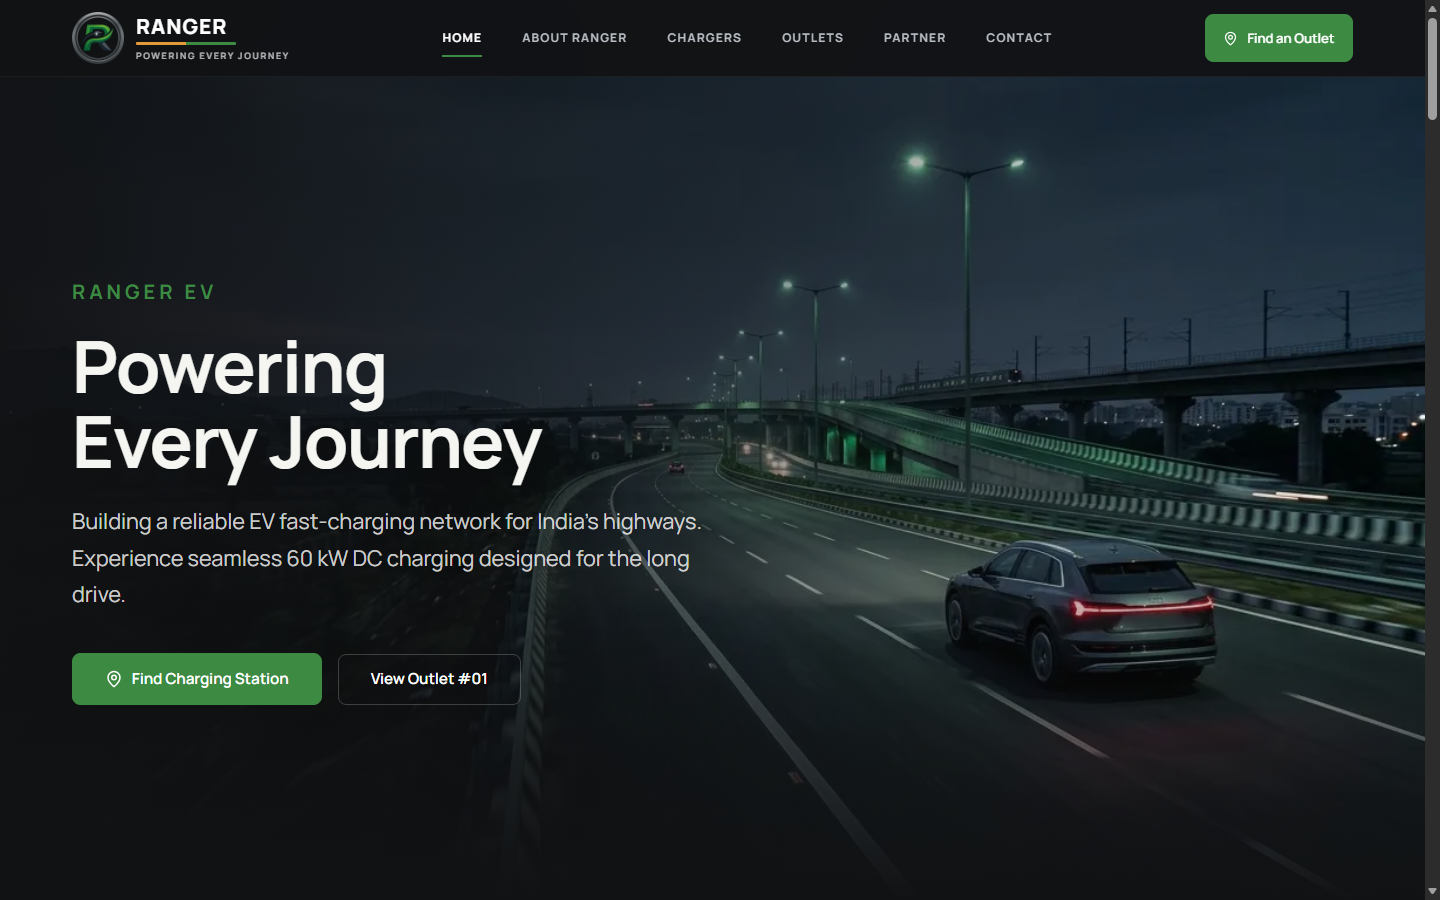
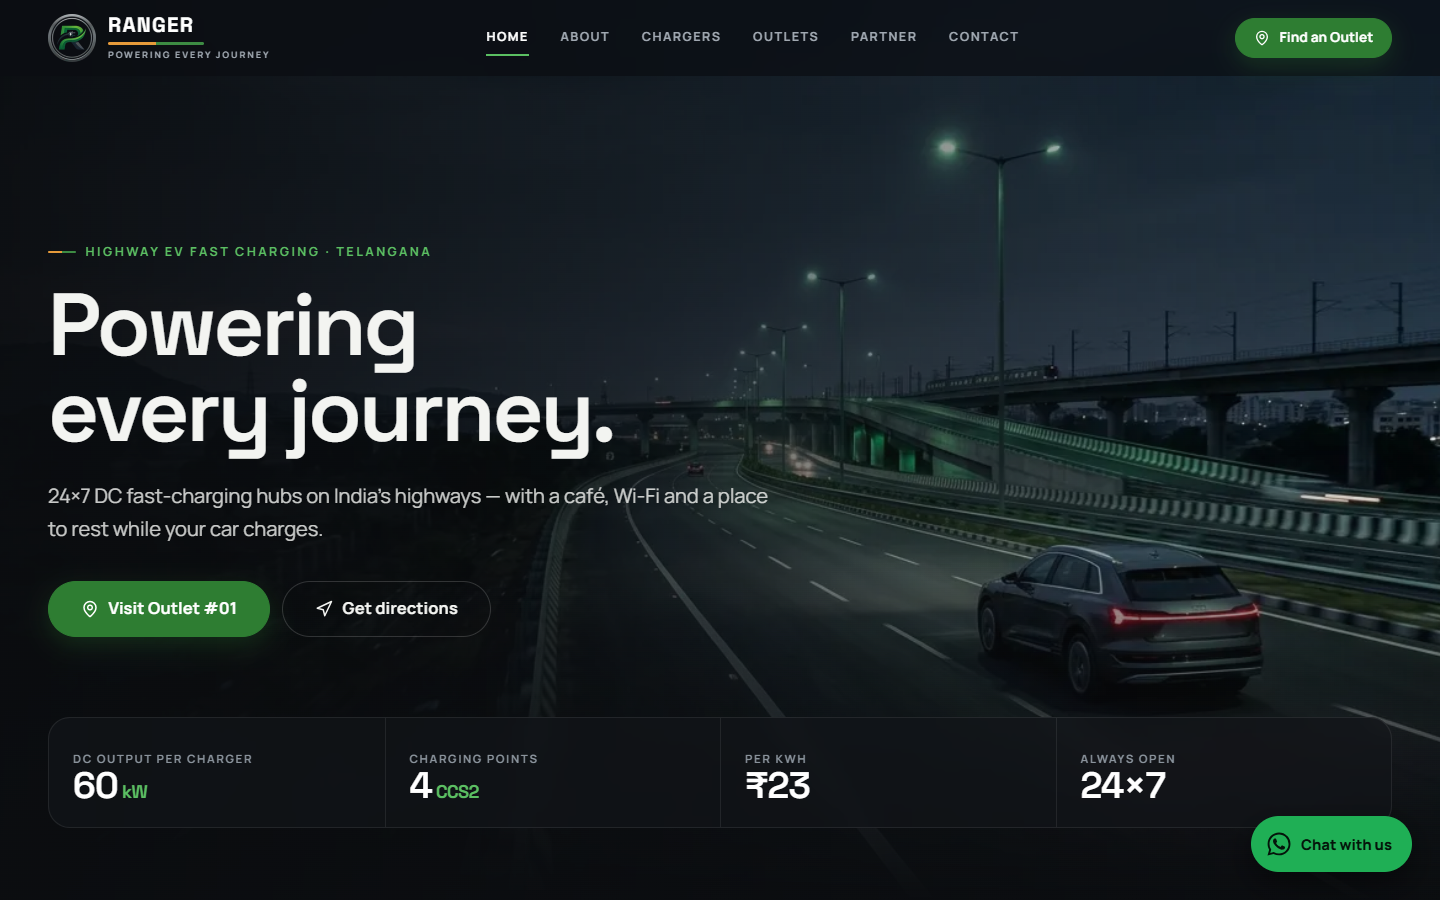
docs: refresh README and screenshots for the new site
- New desktop/mobile screenshots of the live redesign
- Features, tech stack, layout, tests and performance sections match the current code
- Remove outdated claims (real-time status, 3.3 kW AC, retry logic, searchable list)

diff --git a/README.md b/README.md
@@ -5,10 +5,15 @@
 [![React Router](https://img.shields.io/badge/React_Router-v7-CA4245?logo=reactrouter&logoColor=white)](https://reactrouter.com/)
 [![Vitest](https://img.shields.io/badge/Vitest-79_Passed-6E9F18?logo=vitest&logoColor=white)](https://vitest.dev/)
 [![ESLint](https://img.shields.io/badge/ESLint-Clean-4B32C3?logo=eslint&logoColor=white)](https://eslint.org/)
-[![WCAG AA](https://img.shields.io/badge/Accessibility-WCAG_2.1_AA-success)](#accessibility--inclusive-design)
+[![WCAG AA](https://img.shields.io/badge/Accessibility-WCAG_2.1_AA-success)](#key-features)
+[![Live](https://img.shields.io/badge/Live-ranger--ev--website.vercel.app-000?logo=vercel&logoColor=white)](https://ranger-ev-website.vercel.app)
 
-> **High-Performance Highway EV Charging Network Platform**  
-> Built for long-distance intercity electric vehicle mobility across India's national highways. Engineered with React 19, Vite 6, and responsive dark-mode architecture optimized for mobile Core Web Vitals, accessibility, and local SEO.
+> **Premium website for RANGER EV — 24×7 highway EV fast charging in India**
+> RANGER builds DC fast-charging hubs on India's national highways, with a café, Wi-Fi and restrooms on site.
+> Outlet #01 is live on NH 765 (Srisailam Highway): 2 × 60 kW DC CCS2 chargers, open 24×7, ₹23/kWh.
+> Built with React 19 and Vite 6 as a fast, accessible, SEO-ready static site on Vercel.
+
+**Live site:** https://ranger-ev-website.vercel.app
 
 ---
 
@@ -16,31 +21,34 @@
 
 ### Desktop Interface (1440px Viewport)
 
-| Homepage & Fast-Charging Network | Highway Outlets Directory |
+| Homepage | Outlets Directory |
 | :---: | :---: |
-| ![RANGER EV Homepage](docs/screenshots/desktop-1440-home.png) | ![Highway Outlets](docs/screenshots/desktop-1440-outlets.png) |
+| ![RANGER EV homepage](docs/screenshots/desktop-1440-home.png) | ![RANGER outlets directory](docs/screenshots/desktop-1440-outlets.png) |
 
-| Outlet Detail & Live Status | Dedicated Fast Chargers |
+| Outlet Detail | 60 kW DC Fast Charger |
 | :---: | :---: |
-| ![Outlet Detail View](docs/screenshots/desktop-1440-outlet-detail.png) | ![Chargers Overview](docs/screenshots/desktop-1440-chargers.png) |
+| ![Outlet #01 detail page](docs/screenshots/desktop-1440-outlet-detail.png) | ![Charger specifications page](docs/screenshots/desktop-1440-chargers.png) |
 
 ### Mobile Experience (390px Viewport)
 
-| Responsive Mobile Homepage | Touch-Optimized Navigation Drawer |
+| Mobile Homepage | Navigation Drawer |
 | :---: | :---: |
-| ![Mobile View](docs/screenshots/mobile-390-home.png) | ![Mobile Navigation Drawer](docs/screenshots/mobile-390-drawer-open.png) |
+| ![Mobile homepage](docs/screenshots/mobile-390-home.png) | ![Mobile navigation drawer](docs/screenshots/mobile-390-drawer-open.png) |
 
 ---
 
 ## Key Features
 
-- **Highway Corridor Network:** Real-time directory of 24/7 fast-charging stations along high-traffic routes (NH-44, NH-65, Outer Ring Roads) with real-time operational status, gun availability, and nearby amenities.
-- **Dual-Gun 60kW DC & 3.3kW AC Charging:** Clear hardware specs, CCS2 connector compatibility, charging speed breakdowns, and turn-by-turn navigation links.
-- **Route-Specific LCP Optimization:** Custom `<head>` discovery script preloads critical outlet hero images before route JavaScript chunks evaluate, slashing LCP resource discovery delay by 97.0% (527.5 ms → 16.0 ms).
-- **Structured Data & Local SEO:** Imperative client-side SEO engine injecting canonical URLs, Open Graph tags, Twitter cards, and Schema.org JSON-LD (`AutoChargingStation`, `LocalBusiness`, `Organization`) on every route transition.
-- **Accessible Design System:** Full WCAG 2.1 AA compliance across dark mode surfaces, custom focus rings, semantic landmark architecture, accessible form controls, and keyboard-trapped mobile drawer.
-- **Production Form Validation:** Client-validated contact and partnership forms with automated honeypot spam traps, resilient network timeout handling, and accessible error messaging.
-- **Zero Runtime CSS Bloat:** Engineered with custom CSS custom properties (variables), modern CSS Grid, and Flexbox layouts—no heavy UI framework runtime overhead.
+- **Outlet pages built for drivers:** tariff card (₹23/kWh), charging specs, amenities, a "RANGER experience" gallery with an accessible lightbox, an FAQ, and one-tap Directions / Call / WhatsApp (sticky on mobile).
+- **Charging time & cost estimator:** pick a popular CCS2 car or enter a battery size, set arrival and target charge, and see an estimated time and cost. Every assumption is shown on the page.
+- **Network map:** interactive Leaflet map of RANGER outlets, plus a click-to-load Google Map on each outlet page, so map scripts only load when someone asks for them.
+- **Premium dark design system:** one token-based theme, Space Grotesk + Manrope variable fonts (self-hosted), cinematic AVIF/WebP imagery, scroll reveals and view transitions. Motion is turned off for visitors who prefer reduced motion.
+- **Accessibility (WCAG 2.1 AA):** contrast checked on every page, a single `<main>` landmark, skip link, visible focus states, a mobile drawer with focus trap and Escape-to-close (`inert` while closed), and form errors and success messages announced to screen readers.
+- **SEO & link previews:** every route ships its own prerendered `<head>` (title, description, canonical URL, Open Graph / Twitter tags, JSON-LD), so Google and WhatsApp / LinkedIn previews get the correct details without running JavaScript. Includes `ElectricVehicleChargingStation` with geo-coordinates, `FAQPage`, `ItemList`, `BreadcrumbList` and `Organization` data, an auto-generated sitemap, and real HTTP 404s for unknown URLs.
+- **Forms:** contact and site-partnership forms (Formspree) with native validation, a honeypot plus timing spam check, and privacy consent text.
+- **Privacy-first analytics:** GA4 with Consent Mode v2 and a cookie banner. Sends one `page_view` per route, plus conversion events (`click_directions`, `click_call`, `click_whatsapp`, `submit_contact_form`, `submit_partner_form`).
+- **Installable & resilient:** PWA manifest and a service worker that keeps key pages available on patchy highway connections.
+- **Hardened hosting:** enforced Content-Security-Policy, HSTS, X-Frame-Options, Referrer-Policy and Permissions-Policy, with one-year immutable caching for hashed assets.
 
 ---
 
@@ -48,68 +56,61 @@
 
 | Layer | Technology | Purpose |
 | :--- | :--- | :--- |
-| **Framework** | [React 19](https://react.dev/) (`19.2.8`) | Modern component model with automatic memoization and concurrent rendering |
-| **Bundler & Dev Server** | [Vite 6](https://vitejs.dev/) (`6.4.5`) | Ultra-fast HMR and Rollup-powered production chunk splitting |
-| **Routing** | [React Router v7](https://reactrouter.com/) (`7.18.2`) | Declarative client-side routing with route-level code splitting |
-| **Icons** | [Lucide React](https://lucide.dev/) (`1.28.0`) | Lightweight, tree-shakeable SVG icons |
-| **Test Runner** | [Vitest](https://vitest.dev/) (`5.0.5`) | Fast native ESM test runner with JSDOM environment |
-| **Component Testing** | [@testing-library/react](https://testing-library.com/) (`16.3.3`) | User-centric DOM testing and regression verification |
-| **Code Quality** | [ESLint 9](https://eslint.org/) (`9.39.5`) | Flat config with React Hooks & Refresh enforcement |
-| **Asset Optimization** | [Sharp](https://sharp.pixelplumbing.com/) (`0.35.5`) | Automated script for WebP conversion and responsive asset scaling |
+| **Framework** | [React 19](https://react.dev/) (`19.2`) | Component model with concurrent rendering |
+| **Bundler & Dev Server** | [Vite 6](https://vitejs.dev/) (`6.4`) | Fast HMR, route-level code splitting, path-based vendor chunking |
+| **Routing** | [React Router v7](https://reactrouter.com/) (`7.18`) | Lazy-loaded routes and view transitions |
+| **Maps** | [Leaflet](https://leafletjs.com/) (`1.9`) + OpenStreetMap | Network map, loaded only on `/outlets` |
+| **Typography** | [Fontsource](https://fontsource.org/) variable fonts | Self-hosted Manrope + Space Grotesk (no Google Fonts request) |
+| **Icons** | [Lucide React](https://lucide.dev/) (`1.28`) | Tree-shakeable SVG icons |
+| **Forms** | [Formspree](https://formspree.io/) | Serverless form delivery behind `src/services/formService.js` |
+| **Test Runner** | [Vitest](https://vitest.dev/) (`5.0`) + [Testing Library](https://testing-library.com/) | Unit and component tests in JSDOM |
+| **Code Quality** | [ESLint 9](https://eslint.org/) | Flat config with React Hooks & Refresh rules |
+| **Images** | [Sharp](https://sharp.pixelplumbing.com/) | Responsive AVIF/WebP, logo and Open Graph image generation |
+| **Hosting** | [Vercel](https://vercel.com/) | Clean URLs, security headers, preview deployments |
 
 ---
 
 ## Architecture & Codebase Layout
 
 ```
-rangerev.com/
-├── docs/                                # Technical documentation & reports
-│   ├── performance-baseline.md          # Stage 5A-B 12-run Lighthouse baseline report
-│   ├── performance-optimization-plan.md # Stage 5B-D & 5D-2B empirical optimization data
-│   └── screenshots/                     # Desktop and mobile UI validation captures
-├── public/                              # Static public assets
-│   ├── images/                          # High-resolution optimized outlet & charger assets
-│   ├── favicon.ico                      # Multi-size brand favicon
-│   └── robots.txt                       # Search engine crawler directives
-├── scripts/                             # Build & optimization scripts
-│   └── optimize.cjs                     # Sharp image optimization pipeline
-├── src/                                 # Application source code
-│   ├── components/                      # Modular UI components
-│   │   ├── Analytics.jsx                # GA4 SPA page-view router tracking
-│   │   ├── Footer.jsx                   # Global footer with quick links & hours
-│   │   ├── Navbar.jsx                   # Sticky header with mobile drawer toggle
-│   │   ├── SEO.jsx                      # Dynamic document head & JSON-LD management
-│   │   └── TransitionTicker.jsx         # Live highway network ticker
-│   ├── data/                            # Static application datasets & contracts
-│   │   ├── chargers.js                  # Charger specifications & connector types
-│   │   ├── company.js                   # Brand metadata, contacts, and coordinates
-│   │   └── outlets.js                   # Detailed highway station data & amenities
-│   ├── pages/                           # Lazy-loaded route views
-│   │   ├── About.jsx                    # Mission, vision, and team overview
-│   │   ├── Chargers.jsx                 # Charging technology & hardware portfolio
-│   │   ├── Contact.jsx                  # Direct messaging form & 24/7 support line
-│   │   ├── Home.jsx                     # Network hero, features, and outlet preview
-│   │   ├── NotFound.jsx                 # 404 fallback with primary navigation
-│   │   ├── OutletDetail.jsx             # Station-specific details, maps & amenities
-│   │   ├── Outlets.jsx                  # Searchable highway corridor station list
-│   │   └── Partner.jsx                  # Landowner & franchise partnership portal
-│   ├── services/                        # Business logic & integrations
-│   │   └── formService.js               # Form submission client with retry & validation
-│   ├── styles/                          # Styling architecture
-│   │   └── index.css                    # Design tokens, theme variables, and global CSS
-│   ├── config.js                        # Environment & domain configuration constants
-│   ├── App.jsx                          # Route definition & layout wrapper
-│   └── main.jsx                         # React 19 root mounting
-├── tests/                               # Automated test suites (79 tests)
-│   ├── config.test.js                   # Configuration & domain invariants
-│   ├── formService.test.js              # Network request isolation & error handling
-│   ├── outletsData.test.js              # Station dataset contract verification
-│   ├── seo.test.jsx                     # DOM head mutation & metadata assertions
-│   └── setup.js                         # Test environment initialization
-├── eslint.config.js                     # ESLint 9 flat configuration
-├── package.json                         # Dependencies and npm scripts
-├── vercel.json                          # Single-page application routing rewrites
-└── vite.config.js                       # Vite bundler, vendor chunking & Vitest setup
+ranger-ev-website/
+├── assets-src/                          # High-resolution originals (not deployed)
+│   ├── brand/                           # Logo source
+│   └── cinematic/                       # Source imagery for the scene set
+├── docs/
+│   ├── context.md                       # Full project history & decisions
+│   ├── performance-baseline.md          # Lighthouse baseline report
+│   ├── performance-optimization-plan.md # Optimization experiments & data
+│   └── screenshots/                     # README screenshots
+├── public/
+│   ├── images/scenes/                   # Generated AVIF/WebP scenes (640 & 1280 px)
+│   ├── images/brand/                    # Right-sized logo (96 / 192 px WebP)
+│   ├── manifest.webmanifest             # PWA manifest
+│   ├── sw.js                            # Service worker (network-first pages)
+│   └── robots.txt
+├── scripts/
+│   ├── prerender.mjs                    # Per-route <head>, 404.html and sitemap.xml after build
+│   └── process-images.cjs               # Builds scenes, logo and OG images from assets-src/
+├── src/
+│   ├── components/                      # Navbar, Footer, SEO, Gallery, NetworkMap,
+│   │                                    # ChargeCalculator, MapEmbed, FAQ, ConsentBanner, …
+│   ├── data/                            # Single source of truth
+│   │   ├── outlets.js                   # Stations, specs, tariff, amenities, imagery
+│   │   ├── seo.js                       # Route metadata & JSON-LD (used by prerender too)
+│   │   ├── scenes.js                    # Cinematic image set
+│   │   ├── charging.js                  # Estimator presets & maths
+│   │   ├── chargers.js · company.js · faqs.js
+│   ├── lib/                             # analytics.js, useFormSubmit.js
+│   ├── pages/                           # Home, About, Chargers, Outlets, OutletDetail,
+│   │                                    # Partner, Contact, Privacy, NotFound (lazy-loaded)
+│   ├── services/formService.js          # Formspree client
+│   ├── styles/index.css                 # Design tokens & global styles
+│   ├── config.js                        # Domain, analytics ID, defaults
+│   ├── App.jsx                          # Layout, routes, consent, scroll handling
+│   └── main.jsx                         # Root mount, fonts, service worker registration
+├── tests/                               # 79 tests across 9 suites
+├── vercel.json                          # Clean URLs, security headers, caching
+└── vite.config.js                       # Build, chunking & Vitest config
 ```
 
 ---
@@ -123,35 +124,40 @@ npm run test
 ```
 
 ```text
- ✓ tests/formService.test.js (9 tests)
+ ✓ tests/charging.test.js (6 tests)
  ✓ tests/config.test.js (11 tests)
- ✓ tests/outletsData.test.js (19 tests)
+ ✓ tests/forms.test.jsx (5 tests)
+ ✓ tests/formService.test.js (9 tests)
+ ✓ tests/navbar.test.jsx (5 tests)
+ ✓ tests/outletsData.test.js (20 tests)
+ ✓ tests/pages.test.jsx (3 tests)
  ✓ tests/seo.test.jsx (15 tests)
+ ✓ tests/seoData.test.js (5 tests)
 
- Test Files  4 passed (4)
+ Test Files  9 passed (9)
       Tests  79 passed (79)
 ```
 
 ### Coverage Highlights:
-- **`config.test.js`**: Enforces strict URL structures, domain consistency, and valid business email formatting.
-- **`outletsData.test.js`**: Verifies data contracts for every station (geographic latitude/longitude bounds, 24/7 hours, power capacity ratings, amenities array, valid image paths).
-- **`formService.test.js`**: Asserts HTTP POST dispatch, Formspree API isolation, JSON headers, honeypot detection, and network error handling without making real network calls.
-- **`seo.test.jsx`**: Validates imperative DOM mutations inside JSDOM: title updates, meta description creation, canonical link updates, and Schema.org JSON-LD tag generation.
+- **`navbar.test.jsx`**: drawer is `inert` while closed, opens with `aria-expanded`, closes on Escape and backdrop click, and returns focus to the toggle.
+- **`forms.test.jsx`**: honeypot present, the first invalid field is focused, failures are announced via `role="alert"`, success via `role="status"`, and bot submissions are dropped.
+- **`pages.test.jsx`**: outlet page shows the tariff and directions, unknown outlet IDs render the noindex 404, and pages never nest `<main>`.
+- **`outletsData.test.js`**: data contract for every station, including coordinates, specs, tariff and that every referenced image variant exists on disk.
+- **`seoData.test.js` / `seo.test.jsx`**: unique titles and descriptions, geo JSON-LD, ItemList, and correct head updates and clean-up between routes.
+- **`charging.test.js`**: estimator maths, clamping and invalid-input handling.
+- **`config.test.js` / `formService.test.js`**: domain and URL invariants, and Formspree request and error handling with mocked `fetch`.
 
 ---
 
 ## Performance & Core Web Vitals Optimization
 
-The repository includes extensive real-world performance diagnosis and empirical audit history documented in [`docs/performance-optimization-plan.md`](docs/performance-optimization-plan.md):
+Detailed audit history lives in [`docs/performance-optimization-plan.md`](docs/performance-optimization-plan.md) and [`docs/context.md`](docs/context.md).
 
-1. **Route-Specific Image Discovery:**
-   - On `/outlets/*` routes, a zero-dependency inline discovery script executes in `<head>` prior to route bundle loading.
-   - Reduced mobile LCP resource load delay from **527.5 ms to 16.0 ms** (**97.0% improvement**).
-2. **Vendor Chunk Isolation:**
-   - Custom Rollup manual chunking in `vite.config.js` splits third-party libraries (`vendor-*.js`) from application route chunks, maximizing HTTP cache hit rates.
-3. **Google Analytics (gtag.js) Architecture:**
-   - Tested deferred analytics strategies (window load vs. idle scheduling) across 9-run controlled Lighthouse trials.
-   - Retained early asynchronous loading to eliminate low-end mobile Total Blocking Time (TBT) spikes during user interactions and guarantee zero early-bounce data loss.
+1. **Per-route prerendered head:** `scripts/prerender.mjs` writes `about.html`, `outlets/outlet-01.html`, … with route metadata and a route-specific LCP image preload, so each page's hero image starts downloading before any JavaScript runs.
+2. **Responsive imagery:** every scene ships as AVIF + WebP at 640/1280 px with explicit dimensions. Wide heroes never upscale beyond the source resolution.
+3. **Lean loading:** Leaflet is split into its own chunk and loaded only on `/outlets`. Google Maps loads only on click. Fonts are self-hosted, and the navbar logo was cut from an 880 px PNG to 96/192 px WebP.
+4. **Caching:** hashed `/assets/*` files are served `immutable` for a year, images for 30 days with stale-while-revalidate, and the service worker keeps key pages available offline.
+5. **Analytics without double counting:** `send_page_view: false` plus a single `page_view` per route, sent after the page title is set.
 
 ---
 
@@ -165,49 +171,39 @@ The repository includes extensive real-world performance diagnosis and empirical
 ### Installation
 
 ```bash
-# Clone the repository
 git clone https://github.com/chandra8688/ranger-ev-website.git
 cd ranger-ev-website
-
-# Install dependencies
 npm install
 ```
 
 ### Development
 
 ```bash
-# Start local development server with HMR
-npm run dev
+npm run dev            # Vite dev server with HMR on http://localhost:3000
 ```
-
-The application will be available at `http://localhost:5173/`.
 
 ### Production Build & Preview
 
 ```bash
-# Type check and build production bundle
-npm run build
-
-# Preview production build locally
-npm run preview
+npm run build          # vite build + per-route prerender, 404.html and sitemap.xml
+npm run preview        # serve dist/ locally
 ```
 
-### Code Quality & Testing
+### Code Quality, Testing & Assets
 
 ```bash
-# Run ESLint across src/
-npm run lint
-
-# Run full Vitest suite
-npm run test
-
-# Run tests in watch mode
-npm run test:watch
+npm run lint           # ESLint across src/
+npm run test           # full Vitest suite
+npm run test:watch     # watch mode
+npm run process-images # regenerate scenes, logo and OG images from assets-src/
 ```
+
+### Adding a new outlet
+
+Add an entry to `src/data/outlets.js` and a 1200×630 link-preview image at `public/images/outlets/<id>/og-1200x630.jpg`. Its page, JSON-LD, sitemap entry, network-map pin and prerendered HTML are generated automatically on the next build.
 
 ---
 
 ## License
 
 Private repository — All rights reserved © RANGER EV.
-
